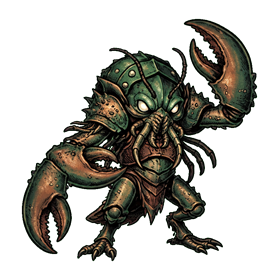
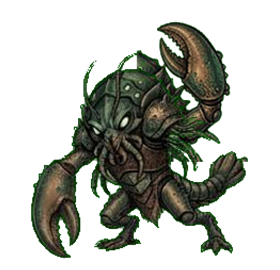
Rebuild third claw attack from original sprite

diff --git a/test_v2_motion.js b/test_v2_motion.js
@@ -444,7 +444,7 @@ assert(fs.existsSync(path.join(root, "art/v2-style/animation-sheets/green-raw/cr
 assert(fs.existsSync(path.join(root, "art/v2-style/animation-sheets/green-raw/grave-worm-animation-sheet.jpg")), "New raw Grave Worm sheet is missing.");
 assert(fs.existsSync(path.join(root, "art/v2-style/animation-sheets/green-raw/siren-animation-sheet.jpg")), "New raw Siren sheet is missing.");
 assert(fs.existsSync(path.join(root, "art/v2-style/animation-sheets/green-raw/mimic-animation-sheet.jpg")), "New raw Mimic sheet is missing.");
-assert(serviceWorker.includes("necromancer-expedition-v208"), "Service worker cache version was not bumped.");
+assert(serviceWorker.includes("necromancer-expedition-v209"), "Service worker cache version was not bumped.");
 for (const slug of ['ancient-treant','skeleton-spear','stone-golem','goblin-rider']) {
   for (const [motion,count] of Object.entries({attack:5,hit:4,death:slug === 'ancient-treant' ? 6 : 5})) {
     for(let i=1;i<=count;i++) {
@@ -503,7 +503,7 @@ for (const [motion, count] of Object.entries({ attack: 5, hit: 5, death: 6 })) {
 assert(practiceHtml.includes('data-unit="abyss-claw-hunter"'), "Abyss Claw Hunter picker is missing.");
 assert(practiceSource.includes('"abyss-claw-hunter": { name: "심연 집게사냥꾼", root: "art/v2-style/animation-test-frames/abyss-claw-hunter/", counts: { attack: 5, hit: 4, death: 5 } }'), "Abyss Claw Hunter frame counts are incorrect.");
 assert(serviceWorker.includes("animation-test-frames/abyss-claw-hunter/${motion}-"), "Abyss Claw Hunter cache generator is missing.");
-assert(abyssClawHunterProcessor.includes('SaveFrame(generated, new Rectangle(0, 0, generated.Width, generated.Height), outputDirectory, "attack", 3, true);'), "Attack frame 3 must use the repaired raised-pincer artwork and canonical direction.");
+assert(abyssClawHunterProcessor.includes("BuildAttackThree") && abyssClawHunterProcessor.includes('graphics.DrawImageUnscaled(originalBody, 0, 0);') && abyssClawHunterProcessor.includes('SaveFrame(attackThree, new Rectangle(0, 0, attackThree.Width, attackThree.Height), outputDirectory, "attack", 3, true);'), "Attack frame 3 must preserve the uploaded body and add only the repaired raised pincer.");
 assert(abyssClawHunterProcessor.includes('SaveFrame(sheet, attack[0], outputDirectory, "attack", 1, true);') && abyssClawHunterProcessor.includes('SaveFrame(sheet, hit[0], outputDirectory, "hit", 1, true);'), "Mirrored source poses must be normalized to one direction.");
 assert(abyssClawHunterProcessor.includes('SaveFrame(sheet, attack[4], outputDirectory, "attack", 5, true);'), "Attack frame 5 must be mirrored to the canonical direction.");
 for (const [motion, count] of Object.entries({ attack: 5, hit: 4, death: 5 })) {
@@ -515,5 +515,6 @@ for (const [motion, count] of Object.entries({ attack: 5, hit: 4, death: 5 })) {
   }
 }
 assert(fs.existsSync(path.join(root, "art/v2-style/animation-sheets/green-raw/abyss-claw-hunter-attack-03-generated.png")), "Repaired attack frame source is missing.");
+assert(fs.existsSync(path.join(root, "art/v2-style/animation-sheets/green-raw/abyss-claw-hunter-attack-03-original-target.png")), "Original third-frame edit target is missing.");
 assert(fs.existsSync(path.join(root, "art/v2-style/processed/192/abyss-claw-hunter.png")), "Abyss Claw Hunter portrait is missing.");
 console.log("SUCCESS: 36 unit motion test integrations, including Abyss Claw Hunter, passed.");

diff --git a/test_v2_auto_battle.js b/test_v2_auto_battle.js
@@ -127,7 +127,7 @@ for (const slug of ["death-knight", "skeleton-spear", "ghoul", "ancient-treant",
   }
 }
 
-assert(worker.includes('necromancer-expedition-v208'), "Service worker cache version was not advanced.");
+assert(worker.includes('necromancer-expedition-v209'), "Service worker cache version was not advanced.");
 assert(worker.includes("v2-auto-battle-practice.html"), "Auto battle page is not cached.");
 assert(worker.includes("v2-auto-battle-practice.css?v=45"), "Turn dice, lineup picker and illustrated unit info styling is not cached.");
 assert(worker.includes("v2-auto-battle-practice.js?v=54") && worker.includes("v2-legions.js?v=3") && worker.includes("v2-battle-brands.js?v=3"), "Turn-based status battle logic is not cached.");

diff --git a/service-worker.js b/service-worker.js
@@ -1,4 +1,4 @@
-const CACHE_NAME = "necromancer-expedition-v208";
+const CACHE_NAME = "necromancer-expedition-v209";
 const APP_SHELL = [
   "./",
   "./index.html",
